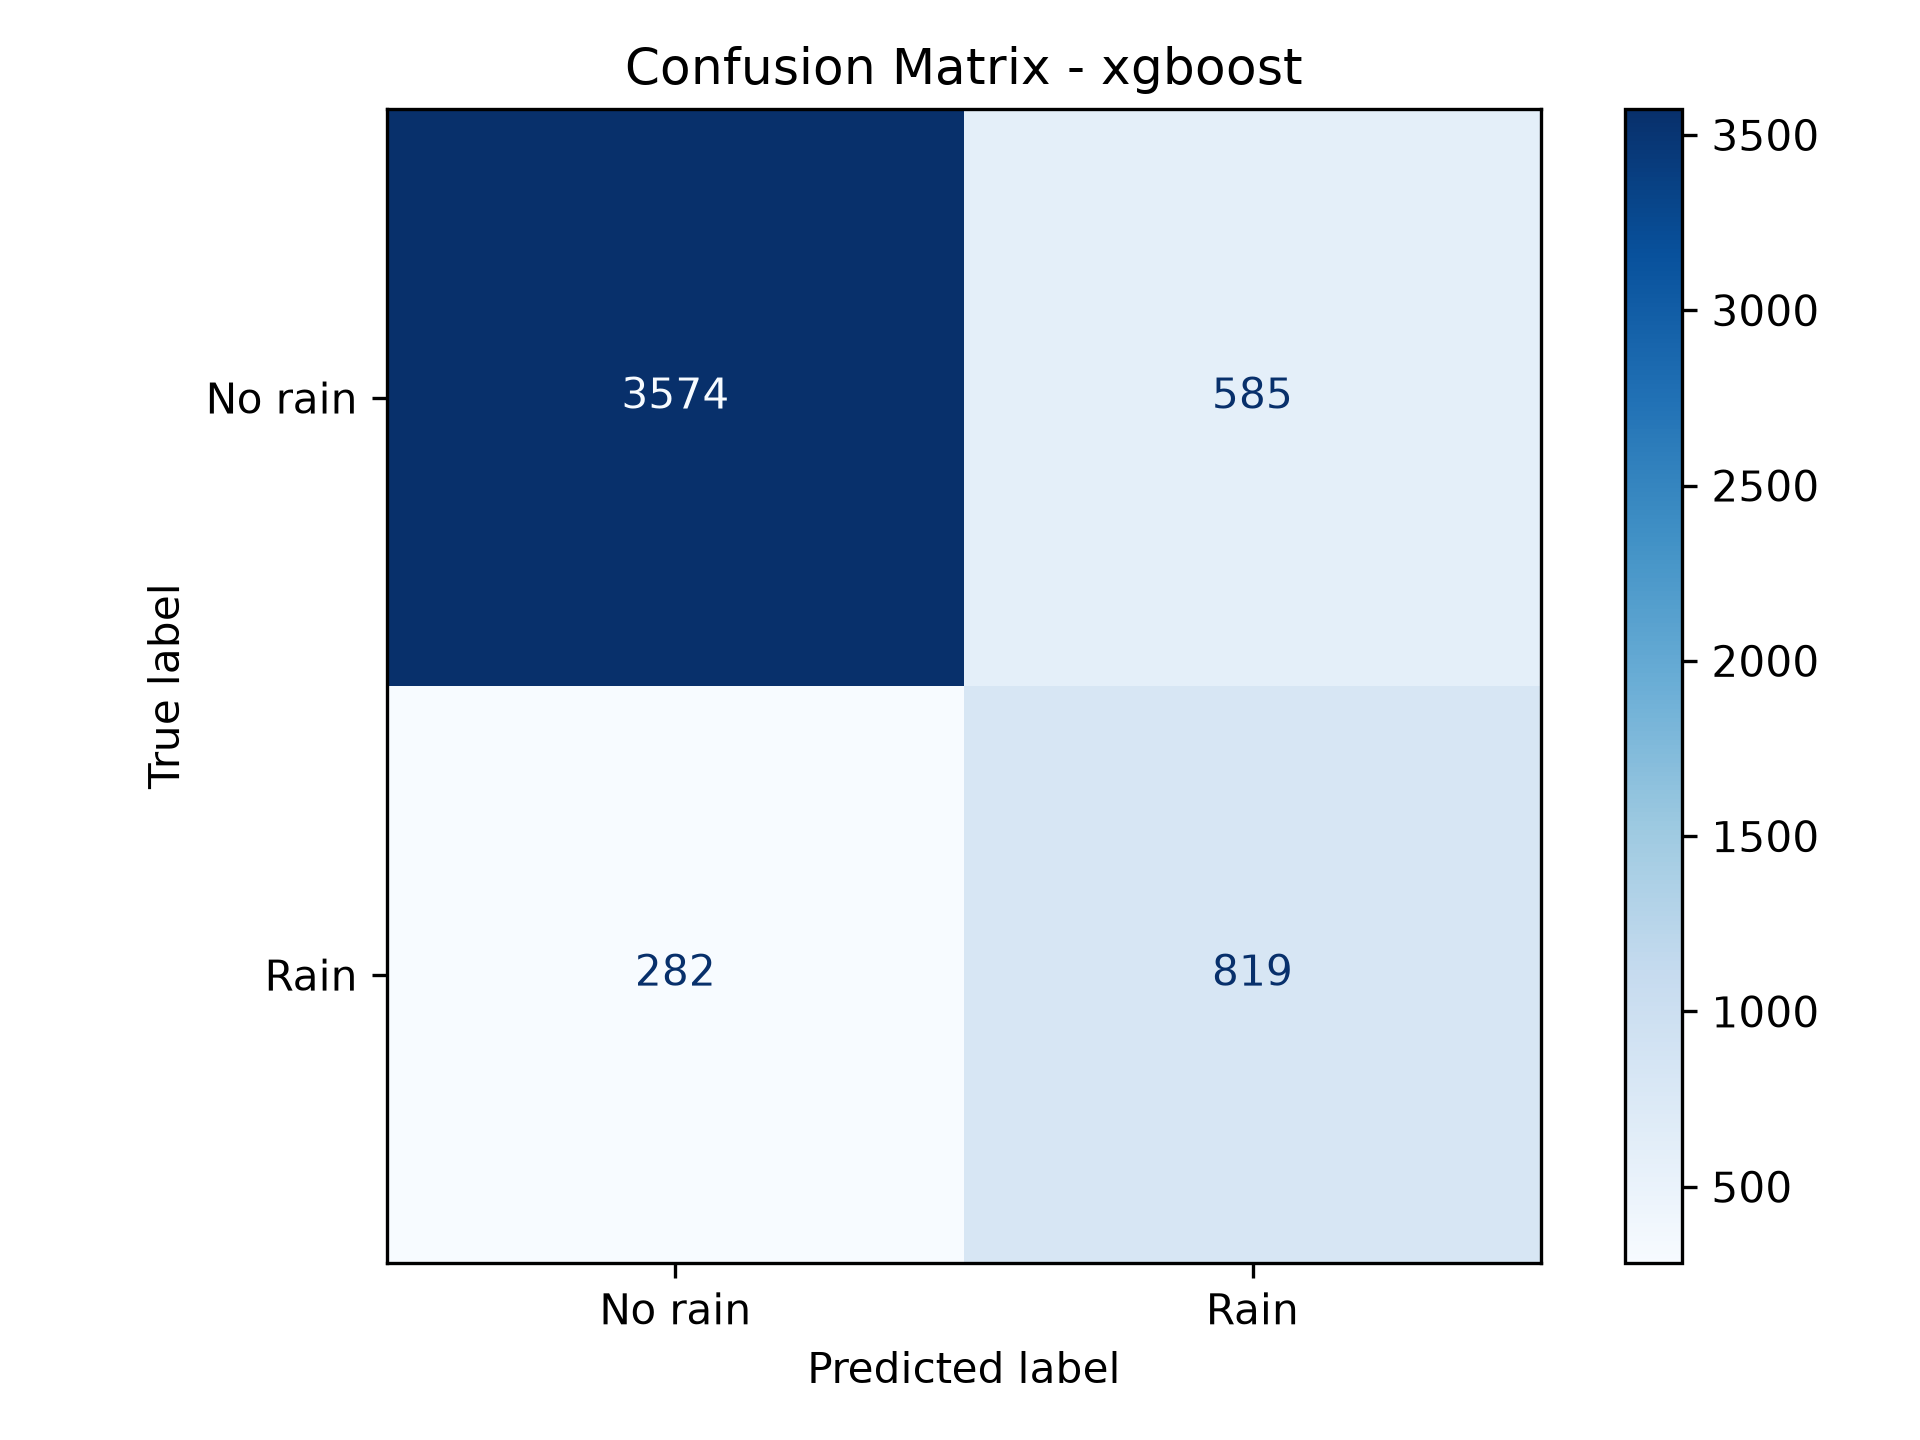
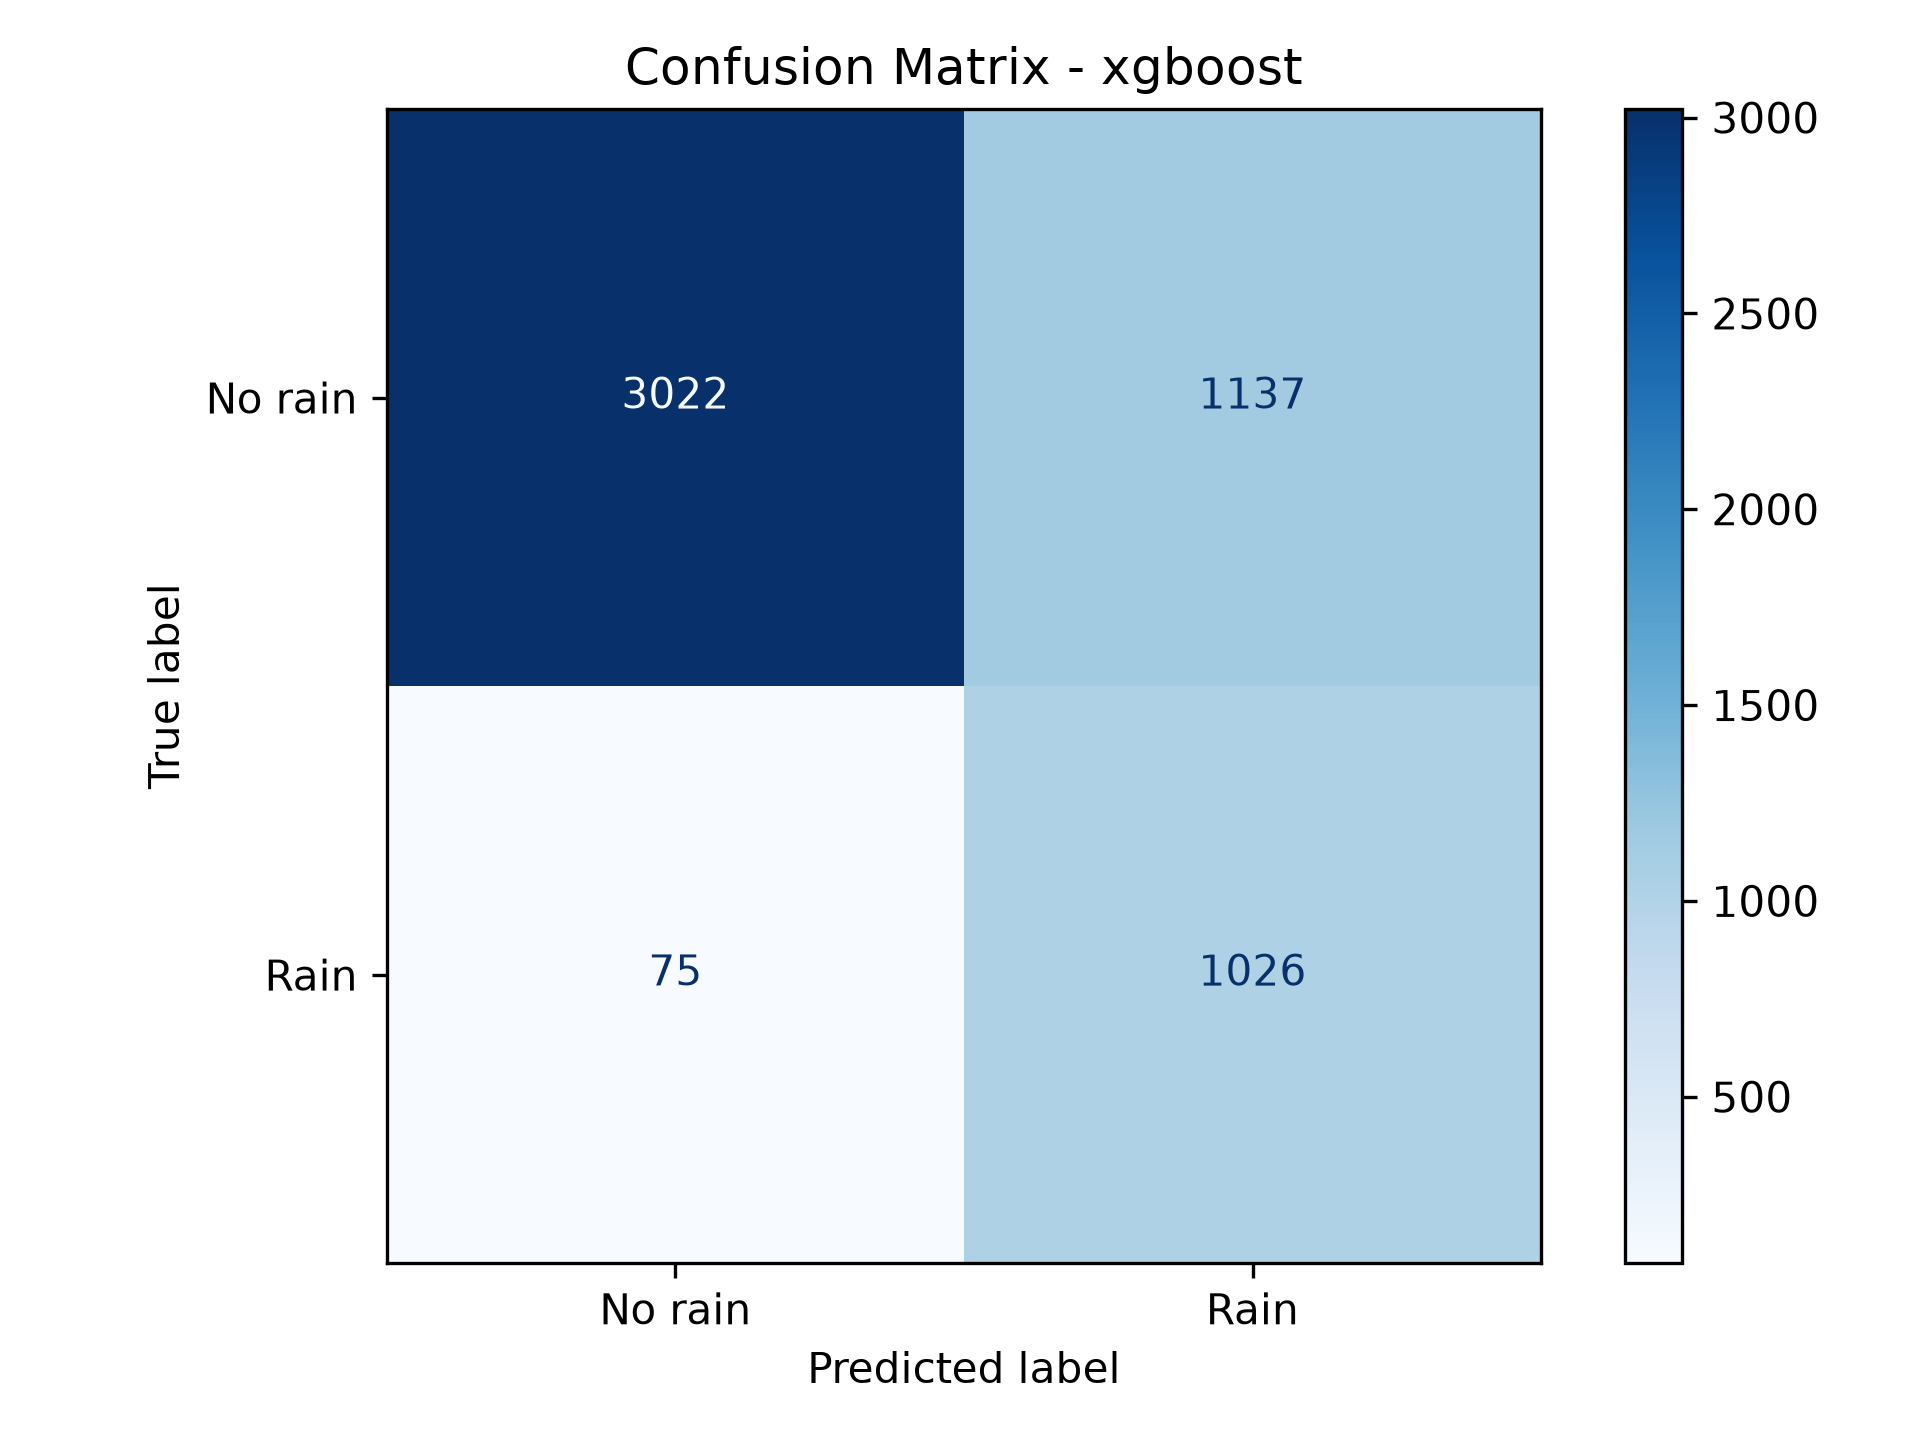
feat(fine-tuning): added xgboost fine-tuning into the pipeline with --tune

diff --git a/src/modeling/tune.py b/src/modeling/tune.py
@@ -1,0 +1,62 @@
+import json
+import os
+
+import numpy as np
+import optuna
+from sklearn.metrics import average_precision_score
+from sklearn.model_selection import TimeSeriesSplit
+from xgboost import XGBClassifier
+
+PARAMS_PATH = "results/xgb_best_params.json"
+
+def run_tuning(data: dict) -> dict:
+    """Use optuna for parameter optimization"""
+    
+    os.makedirs(os.path.dirname(PARAMS_PATH), exist_ok=True)
+    
+    def objective(trial):
+        params = {
+            'n_estimators': trial.suggest_int('n_estimators', 50, 300),
+            'max_depth': trial.suggest_int('max_depth', 2, 10),
+            'learning_rate': trial.suggest_float('learning_rate', 0.01, 0.3, log=True),
+            'subsample': trial.suggest_float('subsample', 0.6, 1.0),
+            'scale_pos_weight': trial.suggest_float('scale_pos_weight', 5.0, 15.0),
+            'random_state': 42,
+            'early_stopping_rounds': 50,
+            'eval_metric': 'aucpr',
+            'n_jobs': -1
+        }
+        
+        tscv = TimeSeriesSplit(n_splits=5)
+        cv_scores = []
+        for train_idx, val_idx in tscv.split(data['X_train']):
+            
+            X_train, X_val = data['X_train'].iloc[train_idx], data['X_train'].iloc[val_idx]
+            y_train, y_val = data['y_train'].iloc[train_idx], data['y_train'].iloc[val_idx]
+            
+            model = XGBClassifier(**params)
+            model.fit(
+                X_train, y_train,
+                eval_set=[(X_val, y_val)],
+                verbose=False
+            )
+            
+            y_proba = model.predict_proba(X_val)[:, 1]
+            
+            score = average_precision_score(y_val, y_proba)
+            cv_scores.append(score)
+            
+        return np.mean(cv_scores)
+    
+    print("[OPTUNA] Inicializing optimization with 50 trials")
+    study = optuna.create_study(direction='maximize')
+    study.optimize(objective, n_trials=50)
+    
+    print(f"Best PR-AUC in validation: {study.best_value:.4f}")
+    best_params = study.best_params
+    
+    with open(PARAMS_PATH, 'w') as f:
+        json.dump(best_params, f, indent=4)
+    return best_params
+
+

diff --git a/src/main.py b/src/main.py
@@ -11,6 +11,7 @@ from src.modeling.evaluate import (
     save_metrics,
 )
 from src.modeling.train import prepare_data, train_models
+from src.modeling.tune import run_tuning
 from src.transformation.cleaning import clean_data
 
 METRICS_FILE = config.METRICS_FILE
@@ -34,6 +35,10 @@ def run_data_pipeline() -> None:
     
     
 def run_ml_pipeline():
+    
+    print("\n" + "="*40)
+    print(">>> EXECUTING MACHINE LEARNING PIPELINE")
+    print("="*40)
     print("1. Preparing data...")
     data = prepare_data()
 
@@ -61,22 +66,36 @@ def main():
         action="store_true", 
         help="Force retrain of the models."
     )
+    parser.add_argument(
+        "--tune", 
+        action="store_true", 
+        help="Run Bayesian Optimization (Optuna) to find and save best XGBoost hyperparameters."
+    )
     args = parser.parse_args()
 
     if args.etl or not check_database_has_data():
         run_data_pipeline()
     else:
         print("[INFO] Database ready. Skipping API data extraction (use --etl to force it).")
-        
-    if args.retrain or not os.path.exists(METRICS_FILE):
-        if args.retrain:
+    
+    if args.tune:
+        print("\n" + "="*40)
+        print(">>> RUNNING HYPERPARAMETER TUNING (OPTUNA)")
+        print("="*40)
+        data = prepare_data()
+        run_tuning(data)
+
+    if args.tune or args.retrain or not os.path.exists(METRICS_FILE):
+        if args.tune:
+            print("[INFO] Tuning completed. Retraining all models with new optimal parameters...")
+        elif args.retrain:
             print("[INFO] Flag --retrain detected. Reexecuting training...")
         else:
             print("[INFO] Metrics not found (first execution).")
-            
+                
         metrics_df = run_ml_pipeline()
     else:
-        print(f"[INFO] Loading saved metrics from '{METRICS_FILE}' (add --retrain to train again):")
+        print(f"[INFO] Loading saved metrics from '{METRICS_FILE}' (add --retrain or --tune to execute):")
         metrics_df = load_metrics(METRICS_FILE)
 
     print("\n=== Model Performance ===")

diff --git a/src/modeling/train.py b/src/modeling/train.py
@@ -1,3 +1,5 @@
+import json
+import os
 from typing import Any
 
 import pandas as pd
@@ -10,6 +12,7 @@ from xgboost import XGBClassifier
 from src.loading.database import select
 from src.modeling.feature_engineering import run_feature_engineering
 
+PARAMS_FILE = "results/xgb_best_params.json"
 
 def get_dataframe() -> pd.DataFrame:
     df = select("SELECT * FROM WEATHER")
@@ -54,6 +57,20 @@ def train_models(data: dict[str, Any]) -> dict[str, Any]:
 
 def inicialize_models(scale_pos_weight: float) -> dict[str, Any]:
     
+    if os.path.exists(PARAMS_FILE):
+        print(f"[INFO] Loading hyperparameters from '{PARAMS_FILE}'...")
+        with open(PARAMS_FILE, "r") as f:
+            xgb_params = json.load(f)
+        xgb = XGBClassifier(**xgb_params)
+    else:
+        print("[INFO] Optuna parameters  not found. Using default parameters...")
+        xgb = XGBClassifier(
+            scale_pos_weight=scale_pos_weight,
+            eval_metric="logloss",
+            random_state=42,
+            n_jobs = -1
+        )
+        
     models={
         'logistic_regression': LogisticRegression(
                 class_weight='balanced',
@@ -66,10 +83,6 @@ def inicialize_models(scale_pos_weight: float) -> dict[str, Any]:
                 n_jobs=-1,
                 random_state=42
                 ),
-        'xgboost': XGBClassifier(
-                scale_pos_weight=scale_pos_weight,
-                eval_metric='logloss',
-                random_state=42
-                )
+        'xgboost': xgb
     }
     return models

diff --git a/src/transformation/cleaning.py b/src/transformation/cleaning.py
@@ -1,6 +1,5 @@
 import pandas as pd
 
-df = pd.read_parquet("data/weather_raw.parquet")
 
 def clean_data(df: pd.DataFrame) -> pd.DataFrame:
     return (df.copy()
@@ -18,5 +17,4 @@ def set_index_time(df: pd.DataFrame) -> pd.DataFrame:
     df = df.set_index("time")
     return df
 
-df = clean_data(df=df)
 
